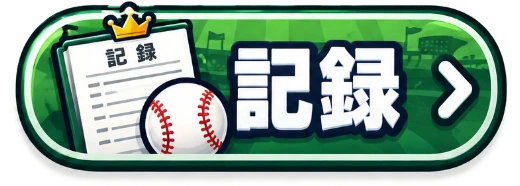
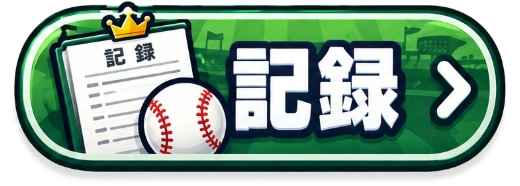
ホーム: ボタンを1か所にまとめ、歴史/発掘の見切れを修正
見切れの原因
- 歴史・発掘の素材は、5マスのグリッド画像から切り出す際の境界が
  隣（記録・トレード）に7pxだけ食い込んでいた。フラッドフィルは
  白い背景しか消さないため、不透明な隣のピルの色がそのまま残り、
  歴史・発掘の右端に記録・トレードの端が写り込んでいた。
  境界をマスの中間（767px）まで引き直して4枚を作り直した。

ボタンの一括表示
- チーム名・順位・勝率のすぐ下に「home-actions」節を新設し、
  次の試合／1日進める／選手チェック／球団経営／歴史／記録／発掘／
  トレード／GM日誌の9個をここに集約した。
  - 次の試合と1日進めるは横1列（.home-actions-row）
  - 残り7個は2列グリッド（.home-actions-grid）で折り返し、
    横スクロールさせない
- 元あった場所（試合前資料の末尾・選手チェックの案内カード・
  球団の状態カードの末尾・歴史記録カードの末尾）からは、
  重複するボタンを取り除いた。情報だけの表示（試合前資料・
  球団の状態・記録件数など）はそのまま残している。

CSS側では、grid/flexの子要素が既定で持つ min-width:auto が
中の <img> の実寸を下限にしてしまい、列が想定より広がって
隣の列が押し出される問題があったため、min-width:0 と
minmax(0, 1fr) をあわせて指定した（今回の見切れの直接の原因では
なかったが、同種の不具合を防ぐため）。

Claude-Session: https://claude.ai/code/session_01JFPSPx7rzfdgYKfyT1doVa

diff --git a/src/ui/screens/HomeScreen.tsx b/src/ui/screens/HomeScreen.tsx
@@ -138,6 +138,47 @@ export function HomeScreen() {
         </div>
       </header>
 
+      {/*
+        ボタンをここに1か所へまとめる（チーム名・順位・勝率のすぐ下）。
+        次の試合と1日進めるは横1列、残りは2列のグリッドにして、
+        どちらも画面の横幅に収まる大きさにする（横スクロールはさせない）。
+      */}
+      <section className="home-actions">
+        <div className="home-actions-row">
+          {/*
+            次の試合はこの画面でいちばん強い動線なので、絵の入ったボタンにしている。
+            押している間だけ2枚目に差し替わる（画像は2枚とも最初から読み込んでおく）。
+            読み上げには「次の試合へ」と伝わるよう、文字も残してある。
+          */}
+          <button
+            className="btn-next-game"
+            disabled={!next}
+            onClick={() => {
+              const result = playNextGame();
+              if (result) setScreen('game');
+            }}
+          >
+            <img className="next-game-idle" src={nextGameArt} alt="" />
+            <img className="next-game-press" src={nextGamePressArt} alt="" />
+            <span className="sr-only">次の試合へ</span>
+          </button>
+          <PictureButton src={nextDayArt} alt="1日進める" onClick={() => skipOneDay()} />
+        </div>
+        <div className="home-actions-grid">
+          <PictureButton
+            src={playerCheckArt}
+            alt="選手チェックを開く"
+            onClick={() => setScreen('playerCheck')}
+          />
+          <PictureButton src={clubFinanceArt} alt="球団経営を見る" onClick={() => setScreen('club')} />
+          <PictureButton src={historyArt} alt="歴史" onClick={() => setScreen('history')} />
+          <PictureButton src={recordsArt} alt="記録" onClick={() => setScreen('records')} />
+          <PictureButton src={discoveryArt} alt="発掘" onClick={() => setScreen('discovery')} />
+          <PictureButton src={tradeArt} alt="トレードを見る" onClick={() => setScreen('trade')} />
+          <PictureButton src={gmJournalArt} alt="GM日誌" onClick={() => setScreen('news')} />
+        </div>
+      </section>
+
       {/* ── 2. 試合前資料 ── いちばん面積を取る（§14） ── */}
       <section className="next-game">
         <Sec en="PRE-GAME BRIEF" ja="試合前資料" size="lead" />
@@ -204,26 +245,6 @@ export function HomeScreen() {
             残り試合はありません（シーズン終了）
           </div>
         )}
-        {/*
-          次の試合はこの画面でいちばん強い動線なので、絵の入ったボタンにしている。
-          押している間だけ2枚目に差し替わる（画像は2枚とも最初から読み込んでおく）。
-          読み上げには「次の試合へ」と伝わるよう、文字も残してある。
-        */}
-        <button
-          className="btn-next-game"
-          disabled={!next}
-          onClick={() => {
-            const result = playNextGame();
-            if (result) setScreen('game');
-          }}
-        >
-          <img className="next-game-idle" src={nextGameArt} alt="" />
-          <img className="next-game-press" src={nextGamePressArt} alt="" />
-          <span className="sr-only">次の試合へ</span>
-        </button>
-        <div className="btn-row" style={{ marginTop: 10 }}>
-          <PictureButton src={nextDayArt} alt="1日進める" onClick={() => skipOneDay()} />
-        </div>
       </section>
 
       {state.seasonFinished && (
@@ -257,22 +278,6 @@ export function HomeScreen() {
           ))}
         </div>
       )}
-
-      {/*
-        PHASE 4.9-A: 「最近調子悪い選手いないかな」から1〜2操作で確認できる入り口。
-        GM Desk の案件（問題があるときだけ出る）とは別に、いつでも自分から開ける。
-      */}
-      <div className="card">
-        <Sec en="PLAYER CHECK" ja="選手チェック" size="sub" />
-        <p className="muted" style={{ fontSize: 'var(--text-sm)', marginBottom: 10 }}>
-          不調・打撃不振・投手不振の選手をまとめて確認できます。
-        </p>
-        <PictureButton
-          src={playerCheckArt}
-          alt="選手チェックを開く"
-          onClick={() => setScreen('playerCheck')}
-        />
-      </div>
 
       {/* ── 4. チーム状態 ── */}
       <div className="card">
@@ -353,13 +358,6 @@ export function HomeScreen() {
             {state.history.hallOfFame.length}人
           </span>
         </div>
-        <div className="icon-grid" style={{ marginTop: 10 }}>
-          <PictureButton src={historyArt} alt="歴史" onClick={() => setScreen('history')} />
-          <PictureButton src={recordsArt} alt="記録" onClick={() => setScreen('records')} />
-          <PictureButton src={discoveryArt} alt="発掘" onClick={() => setScreen('discovery')} />
-          <PictureButton src={tradeArt} alt="トレードを見る" onClick={() => setScreen('trade')} />
-        </div>
-        <PictureButton src={gmJournalArt} alt="GM日誌" onClick={() => setScreen('news')} />
       </div>
 
       {state.lastGrowthReport && !state.seasonFinished && (
@@ -385,10 +383,6 @@ export function HomeScreen() {
   );
 }
 
-/**
- * 絵だけのボタン（PHASE: ホームの各入り口を絵に差し替え）。
- * 読み上げには alt でラベルが伝わる。押した／押せないの見た目は CSS 側で付ける。
- */
 /** チーム状態の1行。数値・ランク・棒をまとめて出す */
 function PowerLine({ label, value, lead }: { label: string; value: number; lead?: boolean }) {
   return (
@@ -468,7 +462,7 @@ function LatestNews() {
 
 /** ホームに出す球団経営のまとめ（PHASE 4.0） */
 function ClubSummary() {
-  const { state, setScreen } = useGame();
+  const { state } = useGame();
   const teamId = state.playerTeamId;
   const club = state.clubs?.[teamId];
   if (!club) return null;
@@ -521,11 +515,6 @@ function ClubSummary() {
           </span>
         </div>
       )}
-      <PictureButton
-        src={clubFinanceArt}
-        alt="球団経営を見る"
-        onClick={() => setScreen('club')}
-      />
     </div>
   );
 }

diff --git a/src/styles.css b/src/styles.css
@@ -1518,13 +1518,44 @@ h3.sec {
 }
 
 /* 歴史・記録・発掘・トレードのように、絵のボタンを2列に並べる場所 */
-.icon-grid {
-  display: grid;
-  grid-template-columns: 1fr 1fr;
-  gap: 10px;
+/*
+ * ホームのボタンをまとめる場所。
+ * チーム名・順位・勝率のすぐ下に置く（§ボタンの一括表示）。
+ */
+.home-actions {
+  padding: var(--space-sm) 0;
+  border-top: 1px solid var(--rule);
 }
 
-.icon-grid .btn-img {
+/* 次の試合 / 1日進める。この2つだけは横1列で並べる */
+.home-actions-row {
+  display: flex;
+  gap: 8px;
+}
+
+.home-actions-row > * {
+  flex: 1 1 0;
+  /* flex item の既定 min-width:auto だと中の img の実寸が下限になり、
+     二分割した幅より画像が大きいときにはみ出す。0 にして必ず縮められるようにする */
+  min-width: 0;
+  margin-top: 0;
+}
+
+/* 残りのボタン。横スクロールさせず、2列に折り返して収める */
+.home-actions-grid {
+  display: grid;
+  grid-template-columns: repeat(2, minmax(0, 1fr));
+  gap: 8px;
+  margin-top: 8px;
+}
+
+.home-actions-grid .btn-img {
+  /*
+   * grid item も flex item と同じ理由（既定 min-width:auto が img の実寸を
+   * 下限にしてしまう）で、記録・トレードなど右側の列がはみ出して見切れていた。
+   * minmax(0, 1fr) と合わせて、ここでも 0 にして必ずトラック幅に収まるようにする。
+   */
+  min-width: 0;
   margin-top: 0;
 }
 
